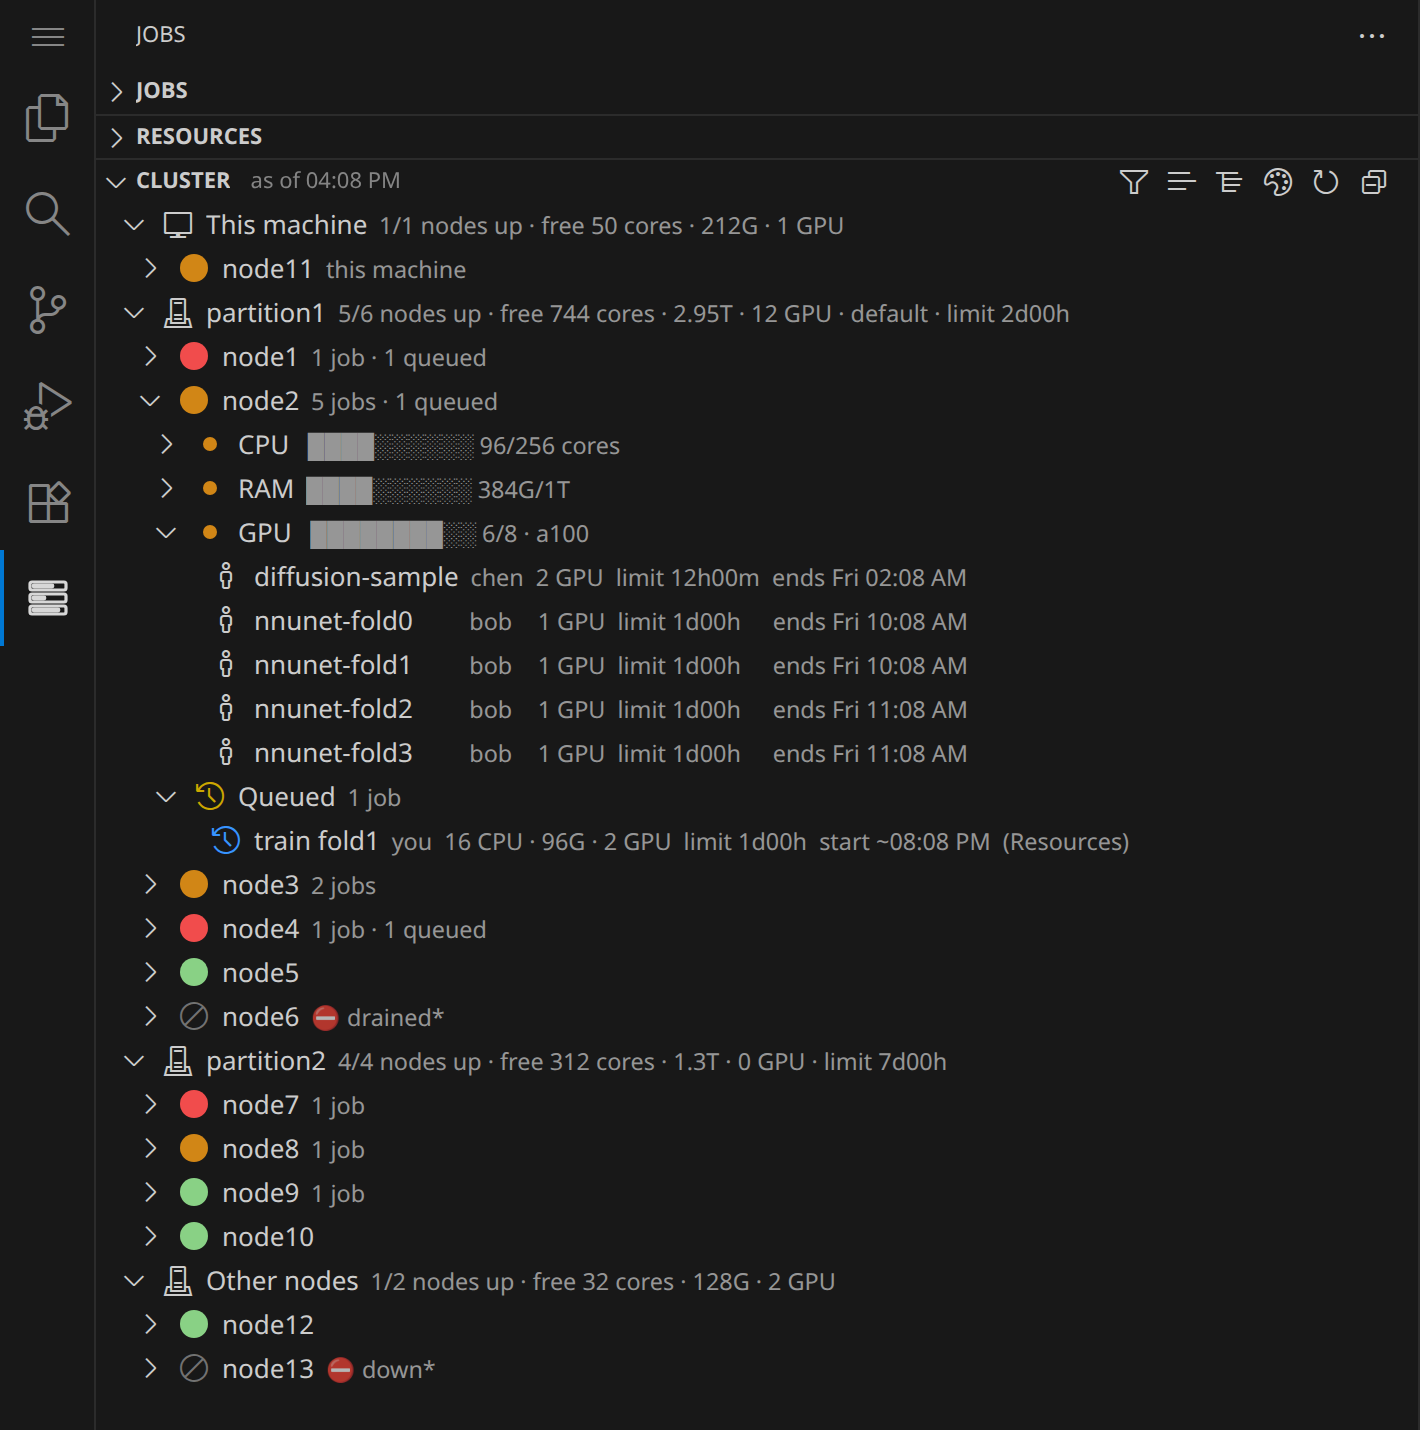
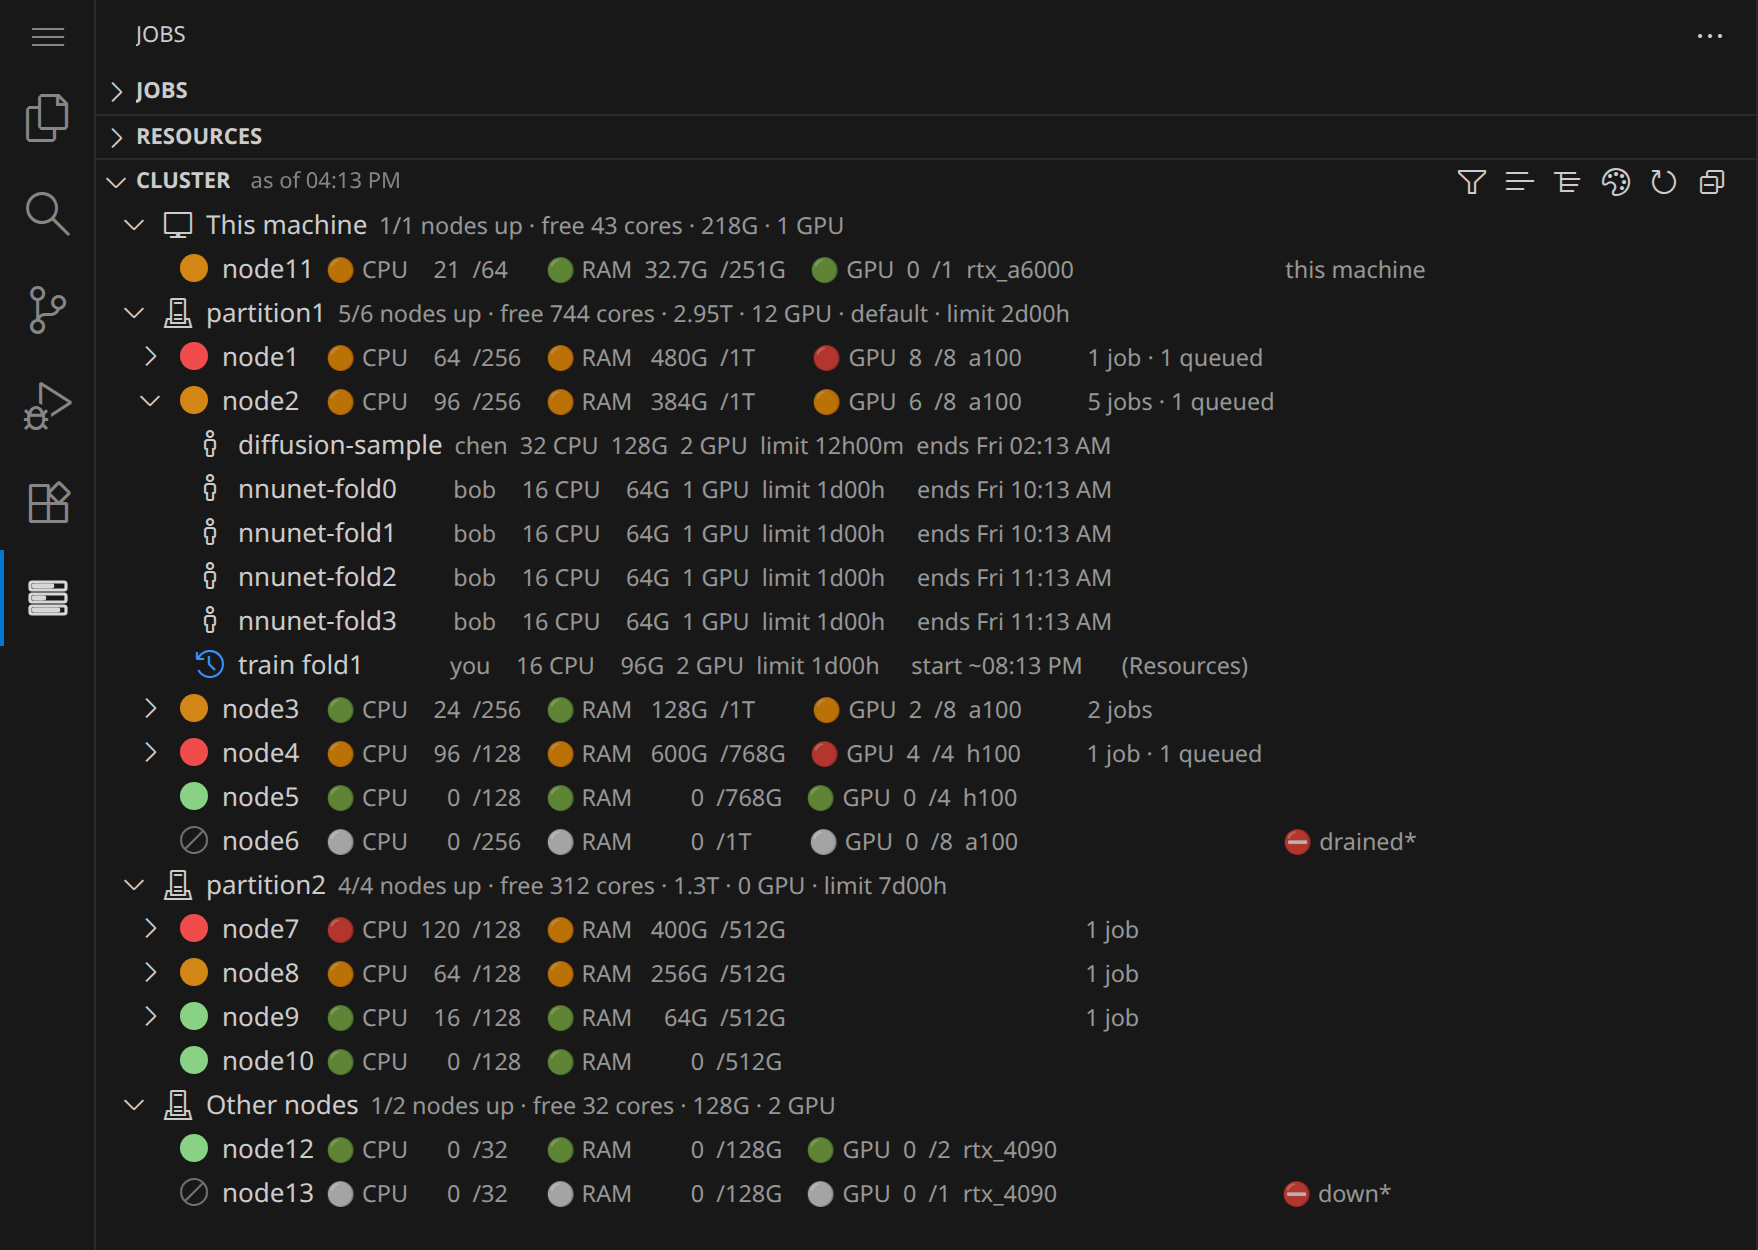
docs[README]: the Cluster screenshot shows the jobs view (clusterNodeDetails = jobs); the default view as text

diff --git a/README.md b/README.md
@@ -403,13 +403,19 @@ and the node's row shows CPU, RAM and GPU in columns instead, each with its traf
 their color when a row is selected. Rows are padded into columns; since the tree uses a
 proportional font, columns after a name (node, job, user) line up to within a few pixels, digits exactly.
 
-<img src="docs/cluster.png" width="600" alt="The Cluster panel: two partitions with their nodes and traffic lights, node2 expanded to its CPU, RAM and GPU rows, the jobs holding its GPUs with owner, time limit and end, and a queued job with its expected start">
+<img src="docs/cluster.png" width="700" alt="The Cluster panel with jobboard.clusterNodeDetails = jobs: partitions with their nodes, each node's CPU, RAM and GPU allocation in columns with traffic lights, and node2 expanded to its jobs with owner, allocation, time limit and end, and a queued job with its expected start">
 
-With `jobboard.clusterNodeDetails = jobs`, a node's row reads:
+The screenshot shows `jobboard.clusterNodeDetails = jobs`. With the default, `resources`, a node expands to:
 
 ```
-▸ ⬤ node2   🟠 CPU  96 /256   🟠 RAM 384G /1T     🟠 GPU 6 /8 a100   5 jobs · 1 queued
-▸ ⬤ node4   🔴 CPU  96 /128   🟠 RAM 600G /768G   🔴 GPU 4 /4 h100   1 job · 1 queued
+▾ ⬤ node2      5 jobs · 1 queued
+  ▸ • CPU      ████░░░░░░ 96/256 cores
+  ▸ • RAM      ████░░░░░░ 384G/1T
+  ▾ • GPU      ████████░░ 6/8 · a100
+        diffusion-sample   chen   2 GPU   limit 12h00m   ends 02:13
+        nnunet-fold0       bob    1 GPU   limit 1d00h    ends 10:13
+  ▾ ◷ Queued   1 job
+        train fold1        you    16 CPU · 96G · 2 GPU   limit 1d00h   start ~20:13   (Resources)
 ```
 
 **Grouping** (`jobboard.clusterGroupBy`, or the tree button in the title bar): by default, partitions with several
